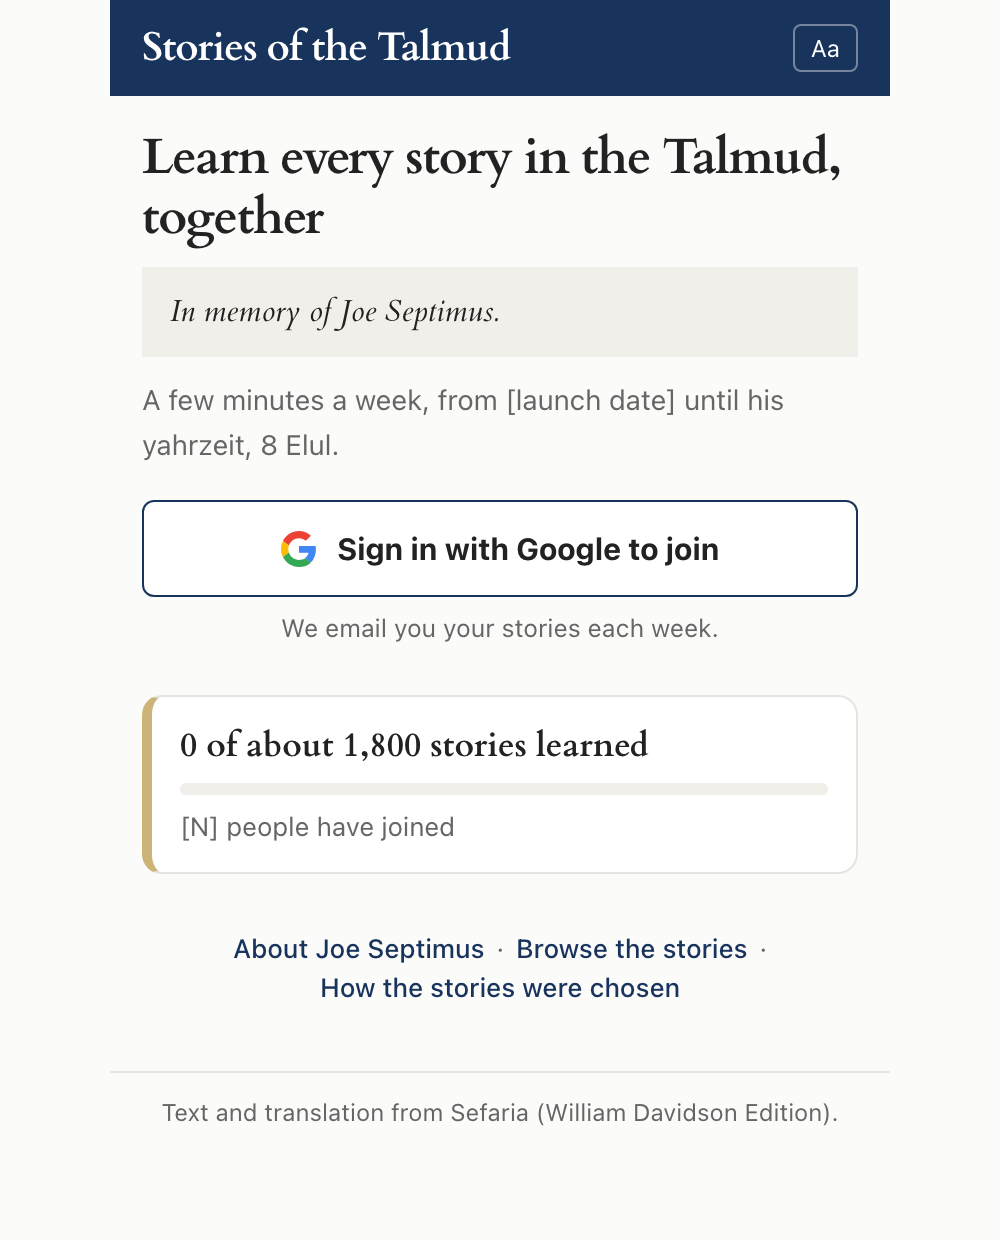
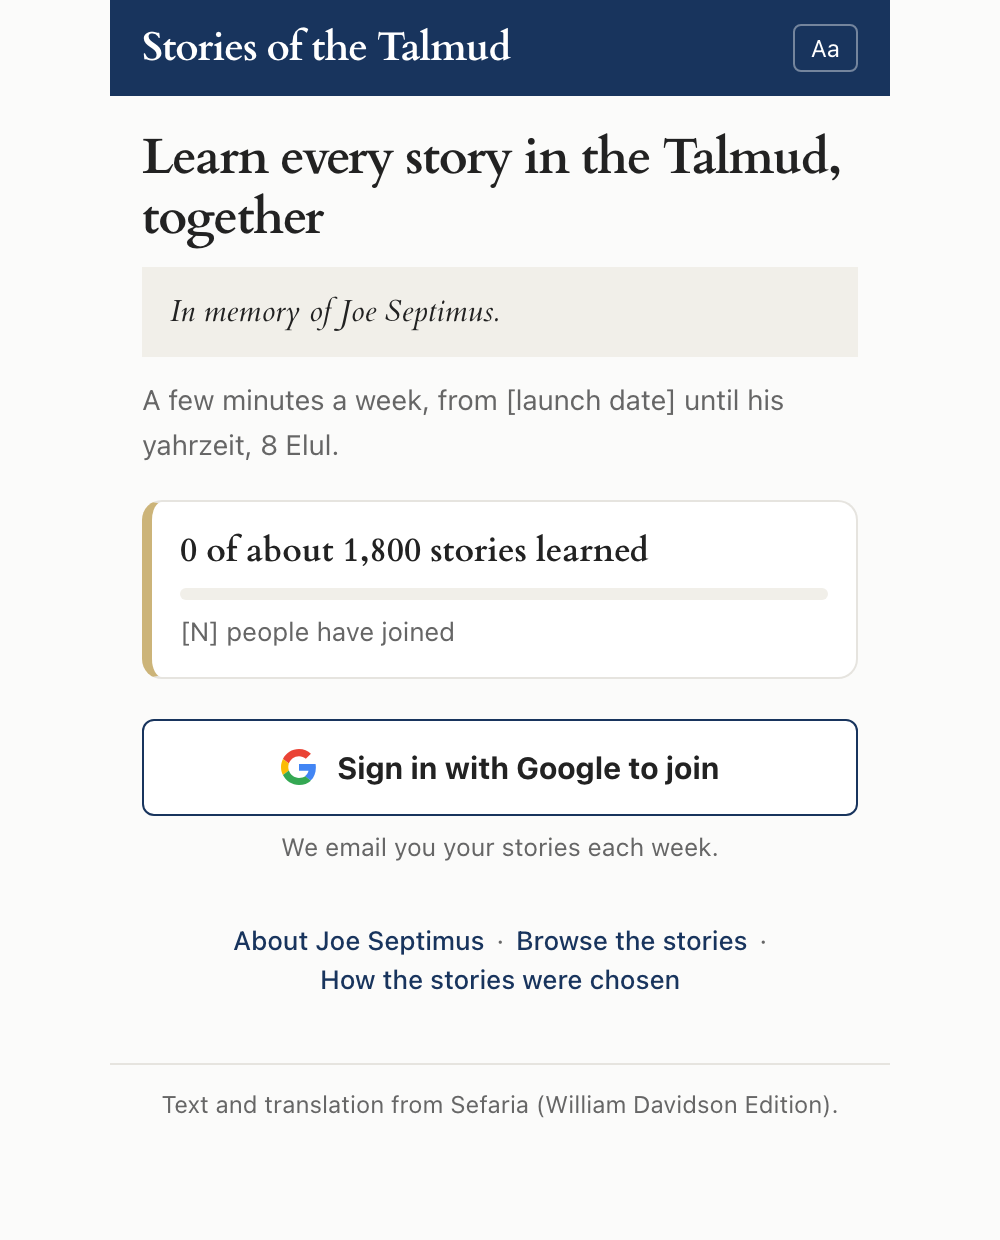
[Septimus] Sign-up mockups: landing page leads with progress, then sign-in

diff --git a/docs/technical/signup-mockups/html/1-landing.html b/docs/technical/signup-mockups/html/1-landing.html
@@ -69,19 +69,8 @@
           A few minutes a week, from [launch date] until his yahrzeit, 8 Elul.
         </p>
 </div>
-<!-- Mid Group: CTA & Microcopy -->
-<div class="space-y-1.5 mt-4">
-<!-- 5. One full-width primary green button -->
-<button class="w-full bg-white text-ink border border-navy font-sans font-bold text-[0.95rem] py-3 px-4 rounded-[6px] flex items-center justify-center gap-2.5" type="button"><svg width="18" height="18" viewBox="0 0 48 48" aria-hidden="true"><path fill="#EA4335" d="M24 9.5c3.5 0 6.6 1.2 9.1 3.6l6.8-6.8C35.8 2.4 30.3 0 24 0 14.6 0 6.5 5.4 2.6 13.2l7.9 6.1C12.4 13.6 17.7 9.5 24 9.5z"/><path fill="#4285F4" d="M46.5 24.5c0-1.6-.1-3.1-.4-4.5H24v9h12.7c-.6 3-2.3 5.500-4.800 7.200l7.600 5.900c4.400-4.100 7-10.100 7-17.600z"/><path fill="#FBBC05" d="M10.500 28.700c-.5-1.500-.8-3-.8-4.700s.3-3.200.8-4.700l-7.900-6.100C.9 16.500 0 20.100 0 24s.9 7.500 2.600 10.800l7.900-6.100z"/><path fill="#34A853" d="M24 48c6.500 0 11.900-2.100 15.900-5.800l-7.600-5.900c-2.100 1.400-4.900 2.300-8.300 2.300-6.300 0-11.600-4.200-13.500-9.900l-7.900 6.100C6.500 42.600 14.600 48 24 48z"/></svg>
-          Sign in with Google to join
-        </button>
-<!-- Under it one small muted line -->
-<p class="text-muted text-[0.78rem] text-center leading-normal">
-          We email you your stories each week.
-        </p>
-</div>
 <!-- Progress Card Group: 6. White card with gold left edge -->
-<div class="bg-card border border-hairline border-l-[5px] border-l-gold rounded-[10px] p-3.5 space-y-2 mt-6">
+<div class="bg-card border border-hairline border-l-[5px] border-l-gold rounded-[10px] p-3.5 space-y-2 mt-4">
 <div class="font-serif font-bold text-ink text-[1.05rem] leading-tight">
           0 of about 1,800 stories learned
         </div>
@@ -92,6 +81,17 @@
 <div class="text-muted text-[0.82rem] leading-tight">
           [N] people have joined
         </div>
+</div>
+<!-- Mid Group: CTA & Microcopy -->
+<div class="space-y-1.5 mt-5">
+<!-- 5. One full-width primary green button -->
+<button class="w-full bg-white text-ink border border-navy font-sans font-bold text-[0.95rem] py-3 px-4 rounded-[6px] flex items-center justify-center gap-2.5" type="button"><svg width="18" height="18" viewBox="0 0 48 48" aria-hidden="true"><path fill="#EA4335" d="M24 9.5c3.5 0 6.6 1.2 9.1 3.6l6.8-6.8C35.8 2.4 30.3 0 24 0 14.6 0 6.5 5.4 2.6 13.2l7.9 6.1C12.4 13.6 17.7 9.5 24 9.5z"/><path fill="#4285F4" d="M46.5 24.5c0-1.6-.1-3.1-.4-4.5H24v9h12.7c-.6 3-2.3 5.500-4.800 7.200l7.600 5.900c4.400-4.100 7-10.100 7-17.600z"/><path fill="#FBBC05" d="M10.500 28.700c-.5-1.500-.8-3-.8-4.700s.3-3.200.8-4.700l-7.900-6.100C.9 16.500 0 20.100 0 24s.9 7.500 2.600 10.800l7.900-6.100z"/><path fill="#34A853" d="M24 48c6.500 0 11.900-2.100 15.900-5.800l-7.600-5.900c-2.100 1.400-4.900 2.300-8.300 2.300-6.300 0-11.600-4.200-13.500-9.900l-7.900 6.100C6.500 42.600 14.600 48 24 48z"/></svg>
+          Sign in with Google to join
+        </button>
+<!-- Under it one small muted line -->
+<p class="text-muted text-[0.78rem] text-center leading-normal">
+          We email you your stories each week.
+        </p>
 </div>
 <!-- Bottom Links Group: 7. Three small navy text links separated by middle dots -->
 <div class="text-center mt-6 pb-6">
